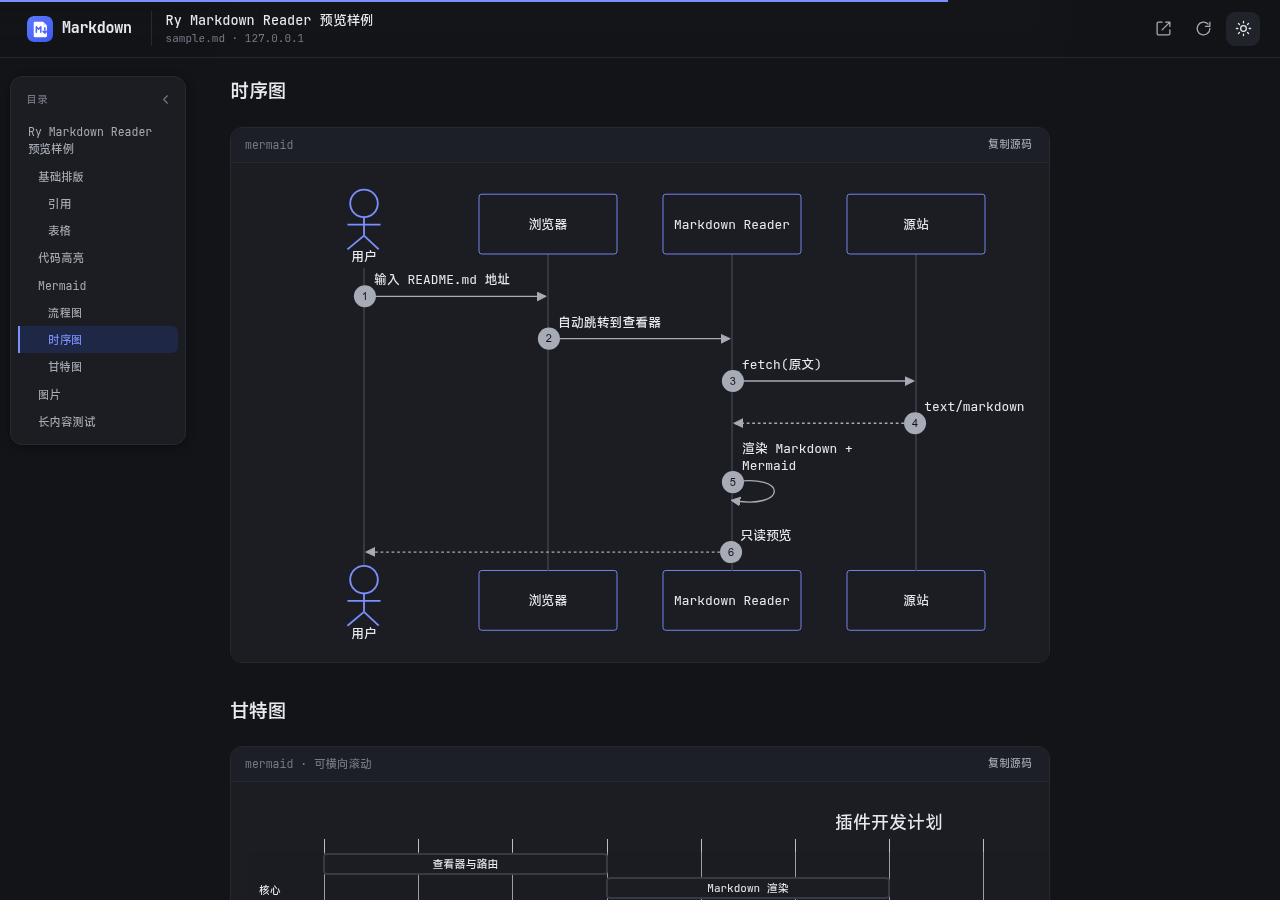
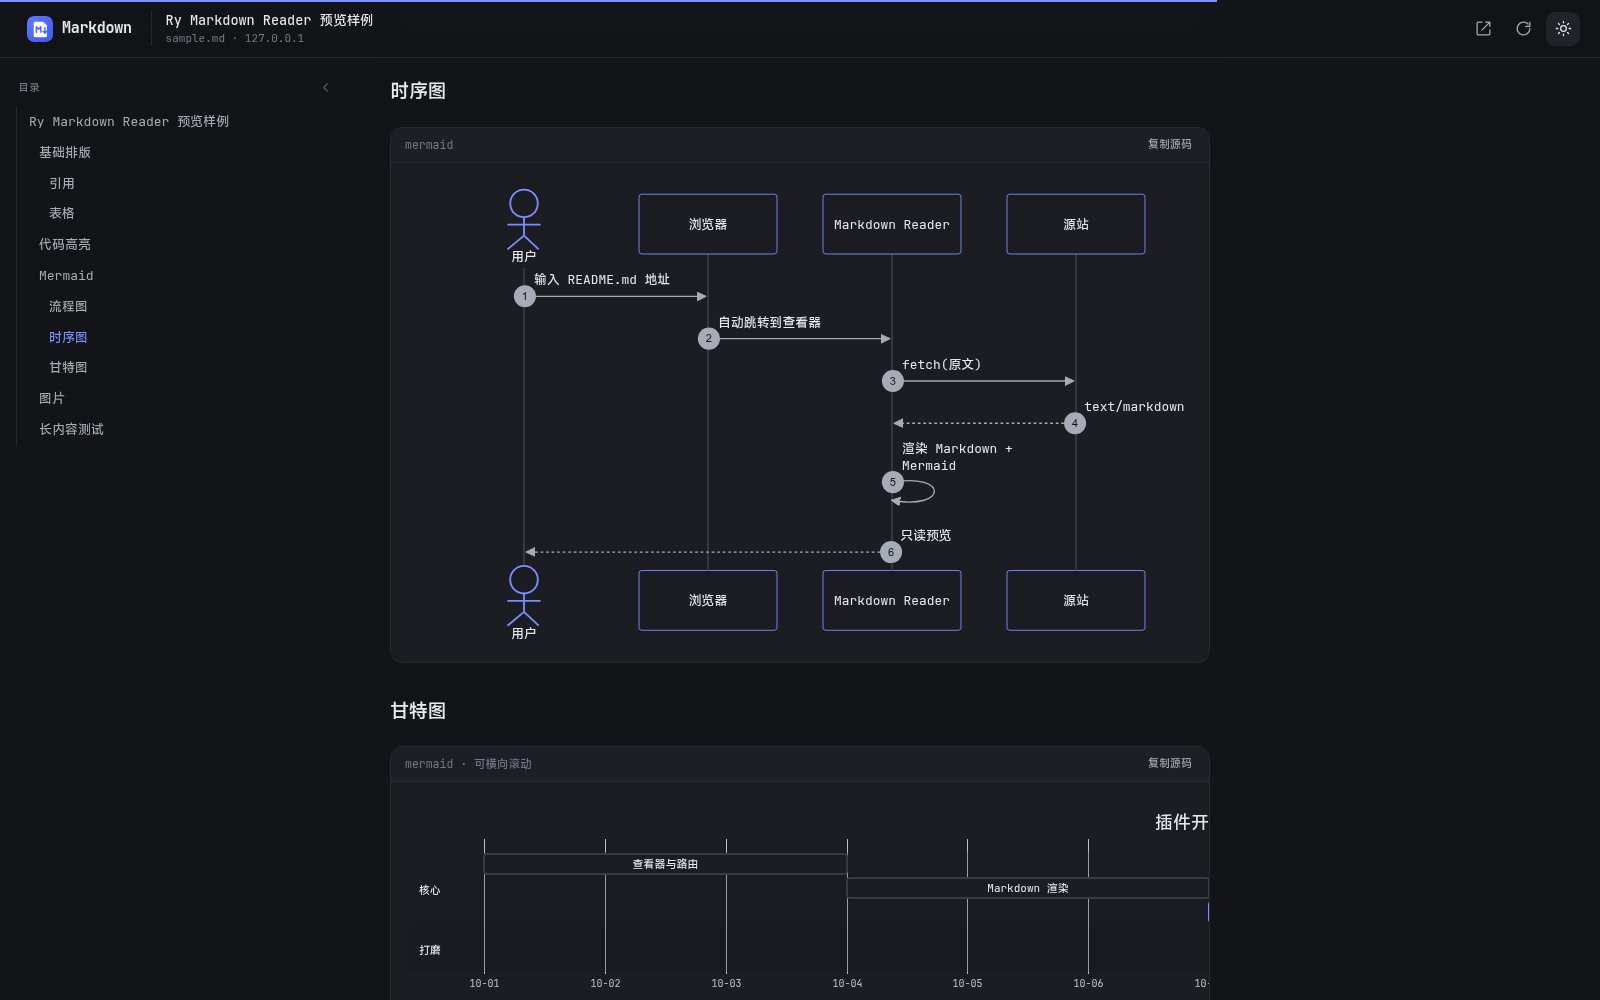
style: widen floating toc and remove card chrome

diff --git a/viewer.css b/viewer.css
@@ -85,7 +85,6 @@
 
   --page-w: 880px;
   --topbar-h: 58px;
-  --toc-w: 176px;
 }
 
 [data-theme="dark"] {
@@ -334,18 +333,12 @@ html[data-theme="dark"] .icon-moon {
 .toc {
   position: fixed;
   top: calc(var(--topbar-h) + 18px);
-  left: clamp(10px, calc((100vw - var(--page-w)) / 2 - var(--toc-w) - 16px), 2000px);
+  right: calc(50% + 464px);
   z-index: 25;
   display: flex;
   flex-direction: column;
-  width: var(--toc-w);
+  width: clamp(220px, calc(50vw - 480px), 360px);
   max-height: calc(100dvh - var(--topbar-h) - 36px);
-  padding: 10px 7px 8px;
-  border: 1px solid var(--border);
-  border-radius: 12px;
-  background: var(--card);
-  box-shadow: var(--shadow-sm);
-  overflow: hidden;
   animation: toc-in 0.18s ease;
 }
 
@@ -365,7 +358,7 @@ html[data-theme="dark"] .icon-moon {
   align-items: center;
   justify-content: space-between;
   flex: 0 0 auto;
-  padding: 0 2px 6px 8px;
+  padding: 0 2px 8px 2px;
 }
 
 .toc-title {
@@ -379,18 +372,20 @@ html[data-theme="dark"] .icon-moon {
 .toc-collapse {
   display: grid;
   place-items: center;
-  width: 24px;
-  height: 24px;
+  width: 22px;
+  height: 22px;
   border: 0;
-  border-radius: 6px;
+  border-radius: 5px;
   background: transparent;
   color: var(--text-3);
-  transition: background 0.15s ease, color 0.15s ease;
+  opacity: 0.7;
+  transition: background 0.15s ease, color 0.15s ease, opacity 0.15s ease;
 }
 
 .toc-collapse:hover {
   background: var(--hover);
   color: var(--text);
+  opacity: 1;
 }
 
 .toc-list {
@@ -399,24 +394,24 @@ html[data-theme="dark"] .icon-moon {
   overflow-y: auto;
   overscroll-behavior: contain;
   padding: 1px 0;
+  border-left: 1px solid var(--border);
   scrollbar-width: thin;
 }
 
 .toc-link {
   position: relative;
   display: -webkit-box;
-  padding: 5px 8px;
+  padding: 5px 8px 5px 12px;
   overflow: hidden;
-  border-left: 2px solid transparent;
-  border-radius: 6px;
+  border-radius: 0 5px 5px 0;
   color: var(--text-2);
-  font-size: 11.5px;
-  line-height: 1.5;
+  font-size: 13px;
+  line-height: 1.6;
   text-decoration: none;
   overflow-wrap: anywhere;
   -webkit-box-orient: vertical;
   -webkit-line-clamp: 2;
-  transition: background 0.15s ease, color 0.15s ease, border-color 0.15s ease;
+  transition: background 0.15s ease, color 0.15s ease;
 }
 
 .toc-link:hover {
@@ -425,31 +420,40 @@ html[data-theme="dark"] .icon-moon {
 }
 
 .toc-link.active {
-  border-left-color: var(--brand);
-  border-radius: 0 6px 6px 0;
-  background: var(--brand-soft);
+  background: transparent;
   color: var(--brand);
   font-weight: 500;
 }
 
+.toc-link.active::before {
+  content: "";
+  position: absolute;
+  top: 5px;
+  bottom: 5px;
+  left: -2px;
+  width: 2px;
+  border-radius: 2px;
+  background: var(--brand);
+}
+
 .toc-link[data-level="2"] {
-  padding-left: 18px;
+  padding-left: 22px;
 }
 
 .toc-link[data-level="3"] {
-  padding-left: 28px;
+  padding-left: 32px;
 }
 
 .toc-link[data-level="4"] {
-  padding-left: 38px;
+  padding-left: 42px;
 }
 
 .toc-link[data-level="5"] {
-  padding-left: 48px;
+  padding-left: 52px;
 }
 
 .toc-link[data-level="6"] {
-  padding-left: 58px;
+  padding-left: 62px;
 }
 
 .toc-backdrop {
@@ -468,39 +472,93 @@ html[data-theme="dark"] .icon-moon {
   display: inline-flex;
   align-items: center;
   gap: 6px;
-  height: 32px;
-  padding: 0 11px;
-  border: 1px solid var(--border);
-  border-radius: 8px;
-  background: var(--card);
-  box-shadow: var(--shadow-sm);
-  color: var(--text-2);
+  height: 30px;
+  padding: 0 6px;
+  border: 0;
+  border-radius: 7px;
+  background: transparent;
+  color: var(--text-3);
   font-size: 11.5px;
-  transition: background 0.15s ease, color 0.15s ease, border-color 0.15s ease;
+  transition: background 0.15s ease, color 0.15s ease;
 }
 
 .toc-fab:hover {
-  border-color: var(--border-strong);
   background: var(--hover);
   color: var(--text);
 }
 
-@media (max-width: 1279px) {
+@media (max-width: 1399px) {
   .toc {
     top: calc(var(--topbar-h) + 12px);
+    right: auto;
     left: 12px;
-    width: min(264px, calc(100vw - 24px));
+    width: min(280px, calc(100vw - 24px));
     max-height: calc(100dvh - var(--topbar-h) - 24px);
-    z-index: 45;
+    padding: 10px 7px 8px;
+    border: 1px solid var(--border);
+    border-radius: 12px;
+    background: var(--card);
     box-shadow: var(--shadow);
+    overflow: hidden;
+    z-index: 45;
+  }
+
+  .toc-head {
+    padding: 0 2px 6px 8px;
+  }
+
+  .toc-list {
+    padding: 1px 0;
+    border-left: 0;
+  }
+
+  .toc-link {
+    padding-left: 8px;
+    border-radius: 6px;
+  }
+
+  .toc-link.active {
+    background: var(--brand-soft);
+    border-radius: 0 6px 6px 0;
+  }
+
+  .toc-link.active::before {
+    left: 0;
+    top: 4px;
+    bottom: 4px;
+  }
+
+  .toc-link[data-level="2"] {
+    padding-left: 18px;
+  }
+
+  .toc-link[data-level="3"] {
+    padding-left: 28px;
+  }
+
+  .toc-link[data-level="4"] {
+    padding-left: 38px;
+  }
+
+  .toc-link[data-level="5"] {
+    padding-left: 48px;
+  }
+
+  .toc-link[data-level="6"] {
+    padding-left: 58px;
   }
 
   .toc-fab {
     top: auto;
     bottom: 20px;
     left: 12px;
+    height: 32px;
+    padding: 0 11px;
+    border: 1px solid var(--border);
+    border-radius: 8px;
+    background: var(--card);
+    box-shadow: var(--shadow-sm);
     z-index: 45;
-    box-shadow: var(--shadow);
   }
 }
 

diff --git a/viewer.js b/viewer.js
@@ -501,7 +501,7 @@
   }
 
   function tocIsNarrow() {
-    return window.matchMedia('(max-width: 1279px)').matches;
+    return window.matchMedia('(max-width: 1399px)').matches;
   }
 
   function applyTocVisibility() {
@@ -653,7 +653,7 @@
       }
     });
 
-    window.matchMedia('(max-width: 1279px)').addEventListener('change', () => {
+    window.matchMedia('(max-width: 1399px)').addEventListener('change', () => {
       tocDrawerOpen = false;
       applyTocVisibility();
     });

diff --git a/README.md b/README.md
@@ -80,7 +80,7 @@ https://raw.githubusercontent.com/markedjs/marked/master/README.md
 
 文档中有两个以上标题时会自动生成目录：
 
-- 宽屏（≥1280px）：左侧悬浮显示，滚动时高亮当前章节，点击跳转
+- 宽屏（≥1400px）：左侧悬浮显示，滚动时高亮当前章节，点击跳转
 - 点击目录右上角的收起按钮可折叠，折叠后通过左侧「目录」按钮重新展开
 - 窄屏：通过左下角「目录」按钮打开抽屉，点击遮罩或标题跳转后自动关闭
 
